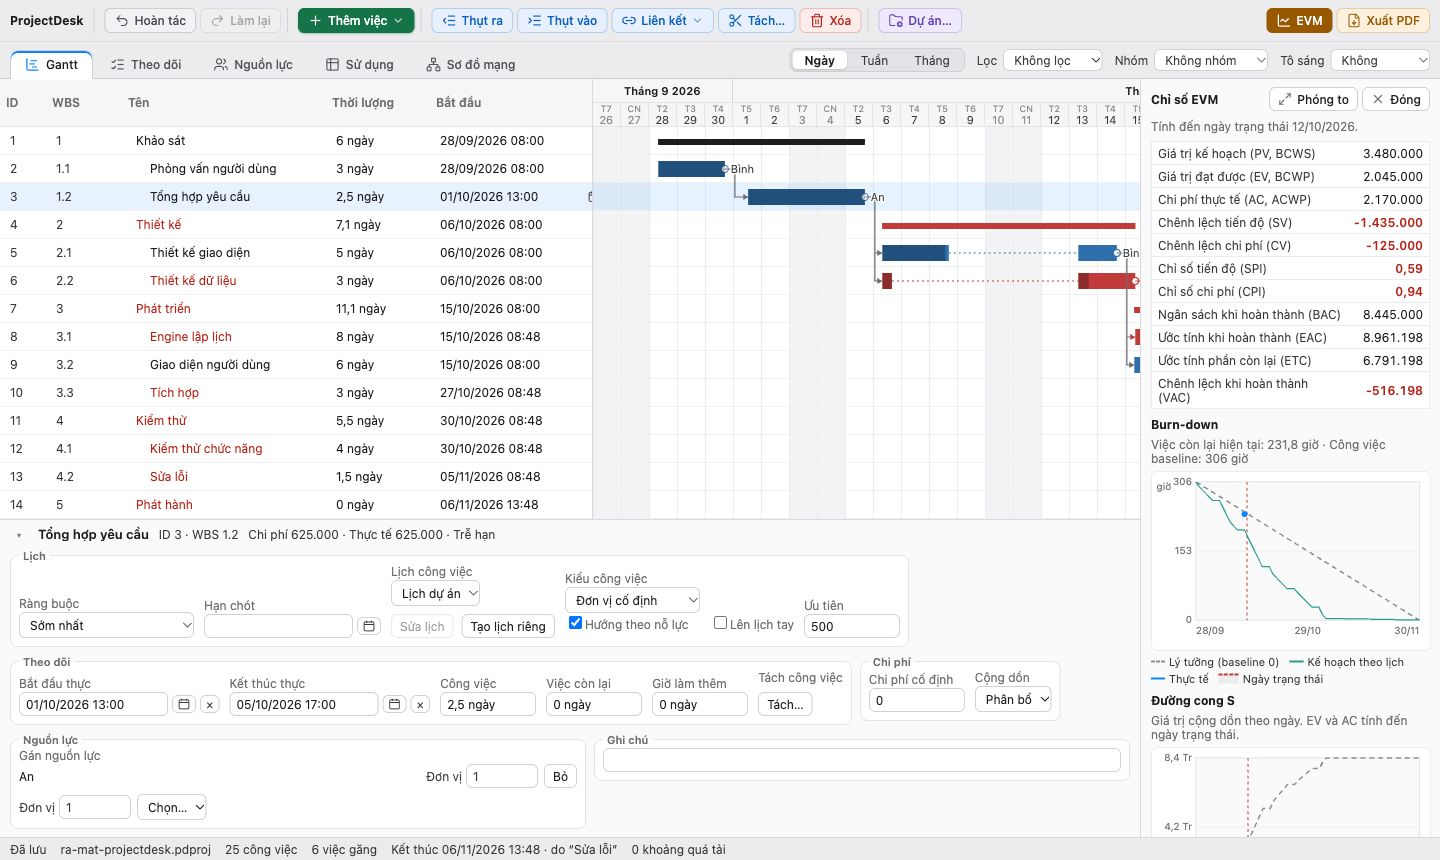
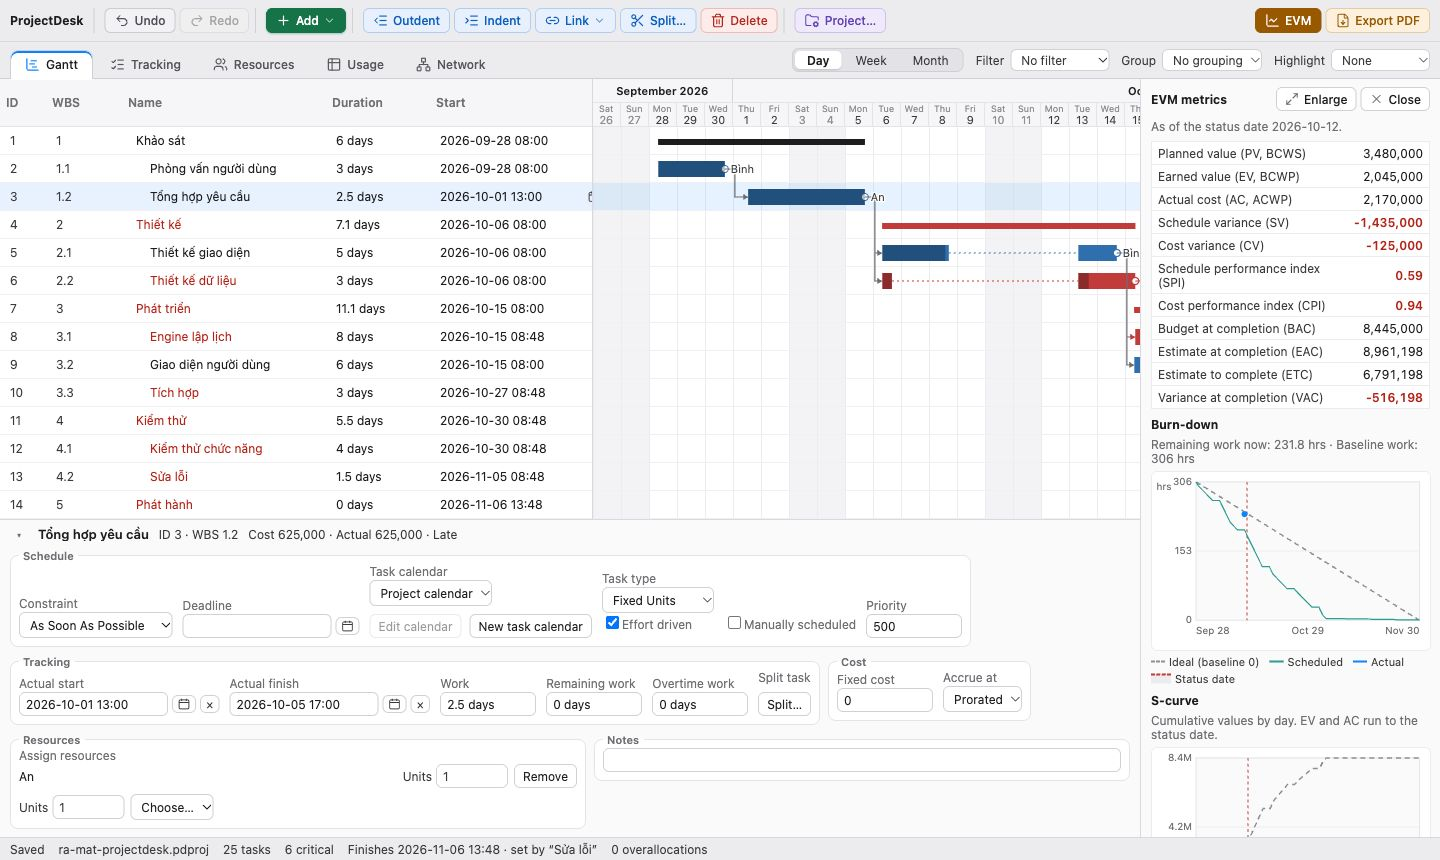
docs: v1.0.0 notes, README and Japanese articles for the English interface (#43)
v1.0.0 is being rebuilt from main so it includes English and the new icon.
Update its release notes (language section, icon, re-download note), the
README, the Qiita and Zenn articles (English screenshot, language section,
typed catalogs), and the plan.

diff --git a/README.md b/README.md
@@ -1,6 +1,6 @@
 # ProjectDesk
 
-Ứng dụng lập lịch dự án kiểu Microsoft Project, chạy trên máy (macOS, Windows, Linux). Giao diện tiếng Việt. Xây bằng Tauri 2, React 19 và một engine lập lịch viết bằng Rust.
+Ứng dụng lập lịch dự án kiểu Microsoft Project, chạy trên máy (macOS, Windows, Linux). Giao diện tiếng Việt và tiếng Anh. Xây bằng Tauri 2, React 19 và một engine lập lịch viết bằng Rust.
 
 ## Tính năng
 
@@ -10,6 +10,7 @@
 - **Theo dõi:** baseline 0–10, % hoàn thành, ngày bắt đầu/kết thúc thực tế điều khiển lịch như Project, dời phần chưa xong sau ngày trạng thái, cờ trễ hạn, chi phí.
 - **Báo cáo:** EVM (PV, EV, AC, SPI, CPI, EAC…), burn-down và đường cong S.
 - **Các view:** năm tab Gantt, Theo dõi, Nguồn lực, Sử dụng và Sơ đồ mạng; thang ngày/tuần/tháng, lọc, nhóm, tô sáng theo từng view; xuất PDF.
+- **Ngôn ngữ:** tiếng Việt và tiếng Anh, đổi trong menu Xem → Ngôn ngữ; lần đầu mở theo ngôn ngữ của máy. Tiếng Anh dùng ngày ISO và thuật ngữ của Microsoft Project.
 - **Giao diện:** thanh công cụ chia nhóm theo màu và có biểu tượng (lịch sử, tạo việc, sửa việc đang chọn, dự án, báo cáo); nút bị tắt cho biết lý do. Dùng được bằng bàn phím: chuyển tab bằng mũi tên, chọn và dời task trên Gantt (↑ ↓, Enter, Option+← →), hộp thoại đóng bằng Esc. Biểu đồ EVM xem phóng to được.
 - **Tệp:** định dạng `.pdproj` (SQLite) lưu cả lịch sử hoàn tác; lưu an toàn, tự lưu và khôi phục sau khi app tắt đột ngột; mở được tệp hỏng một phần. Nhập/xuất MSPDI (`.xml`) để trao đổi với Microsoft Project; không đọc được tệp `.mpp`.
 

diff --git a/.cursor/plans/projectdesk_macos_da6c3154.plan.md b/.cursor/plans/projectdesk_macos_da6c3154.plan.md
@@ -57,7 +57,7 @@ todos:
     content: "Pha 11: giao diện cơ bản (PR #25; kiểm tra bằng mắt sau Pha 13, sửa ở PR #33)"
     status: completed
   - id: release-1-0-0
-    content: "Bản v1.0.0: bản chính thức đầu tiên (chưa ký số, macOS chỉ arm64, định dạng tệp 4); ghi chú ở docs/releases/v1.0.0.md. Bản nháp v0.1.0 đã xóa, tag v0.1.0 giữ lại. Ký số và bản universal vẫn chờ Pha 14"
+    content: "Bản v1.0.0: bản chính thức đầu tiên (chưa ký số, macOS chỉ arm64, định dạng tệp 4); ghi chú ở docs/releases/v1.0.0.md. Bản nháp v0.1.0 đã xóa, tag v0.1.0 giữ lại. Ngày 12/10 build lại v1.0.0 (tag dời lên main) để có tiếng Anh và icon mới, theo quyết định của chủ dự án. Ký số và bản universal vẫn chờ Pha 14"
     status: completed
   - id: file-performance
     content: "Pha 12: nền tệp và hiệu năng (checkpoint, lệnh bất đồng bộ, tệp hỏng, báo đổi ngày, tự lưu, gộp lịch sử; PR #28, #29 và phần 3)"
